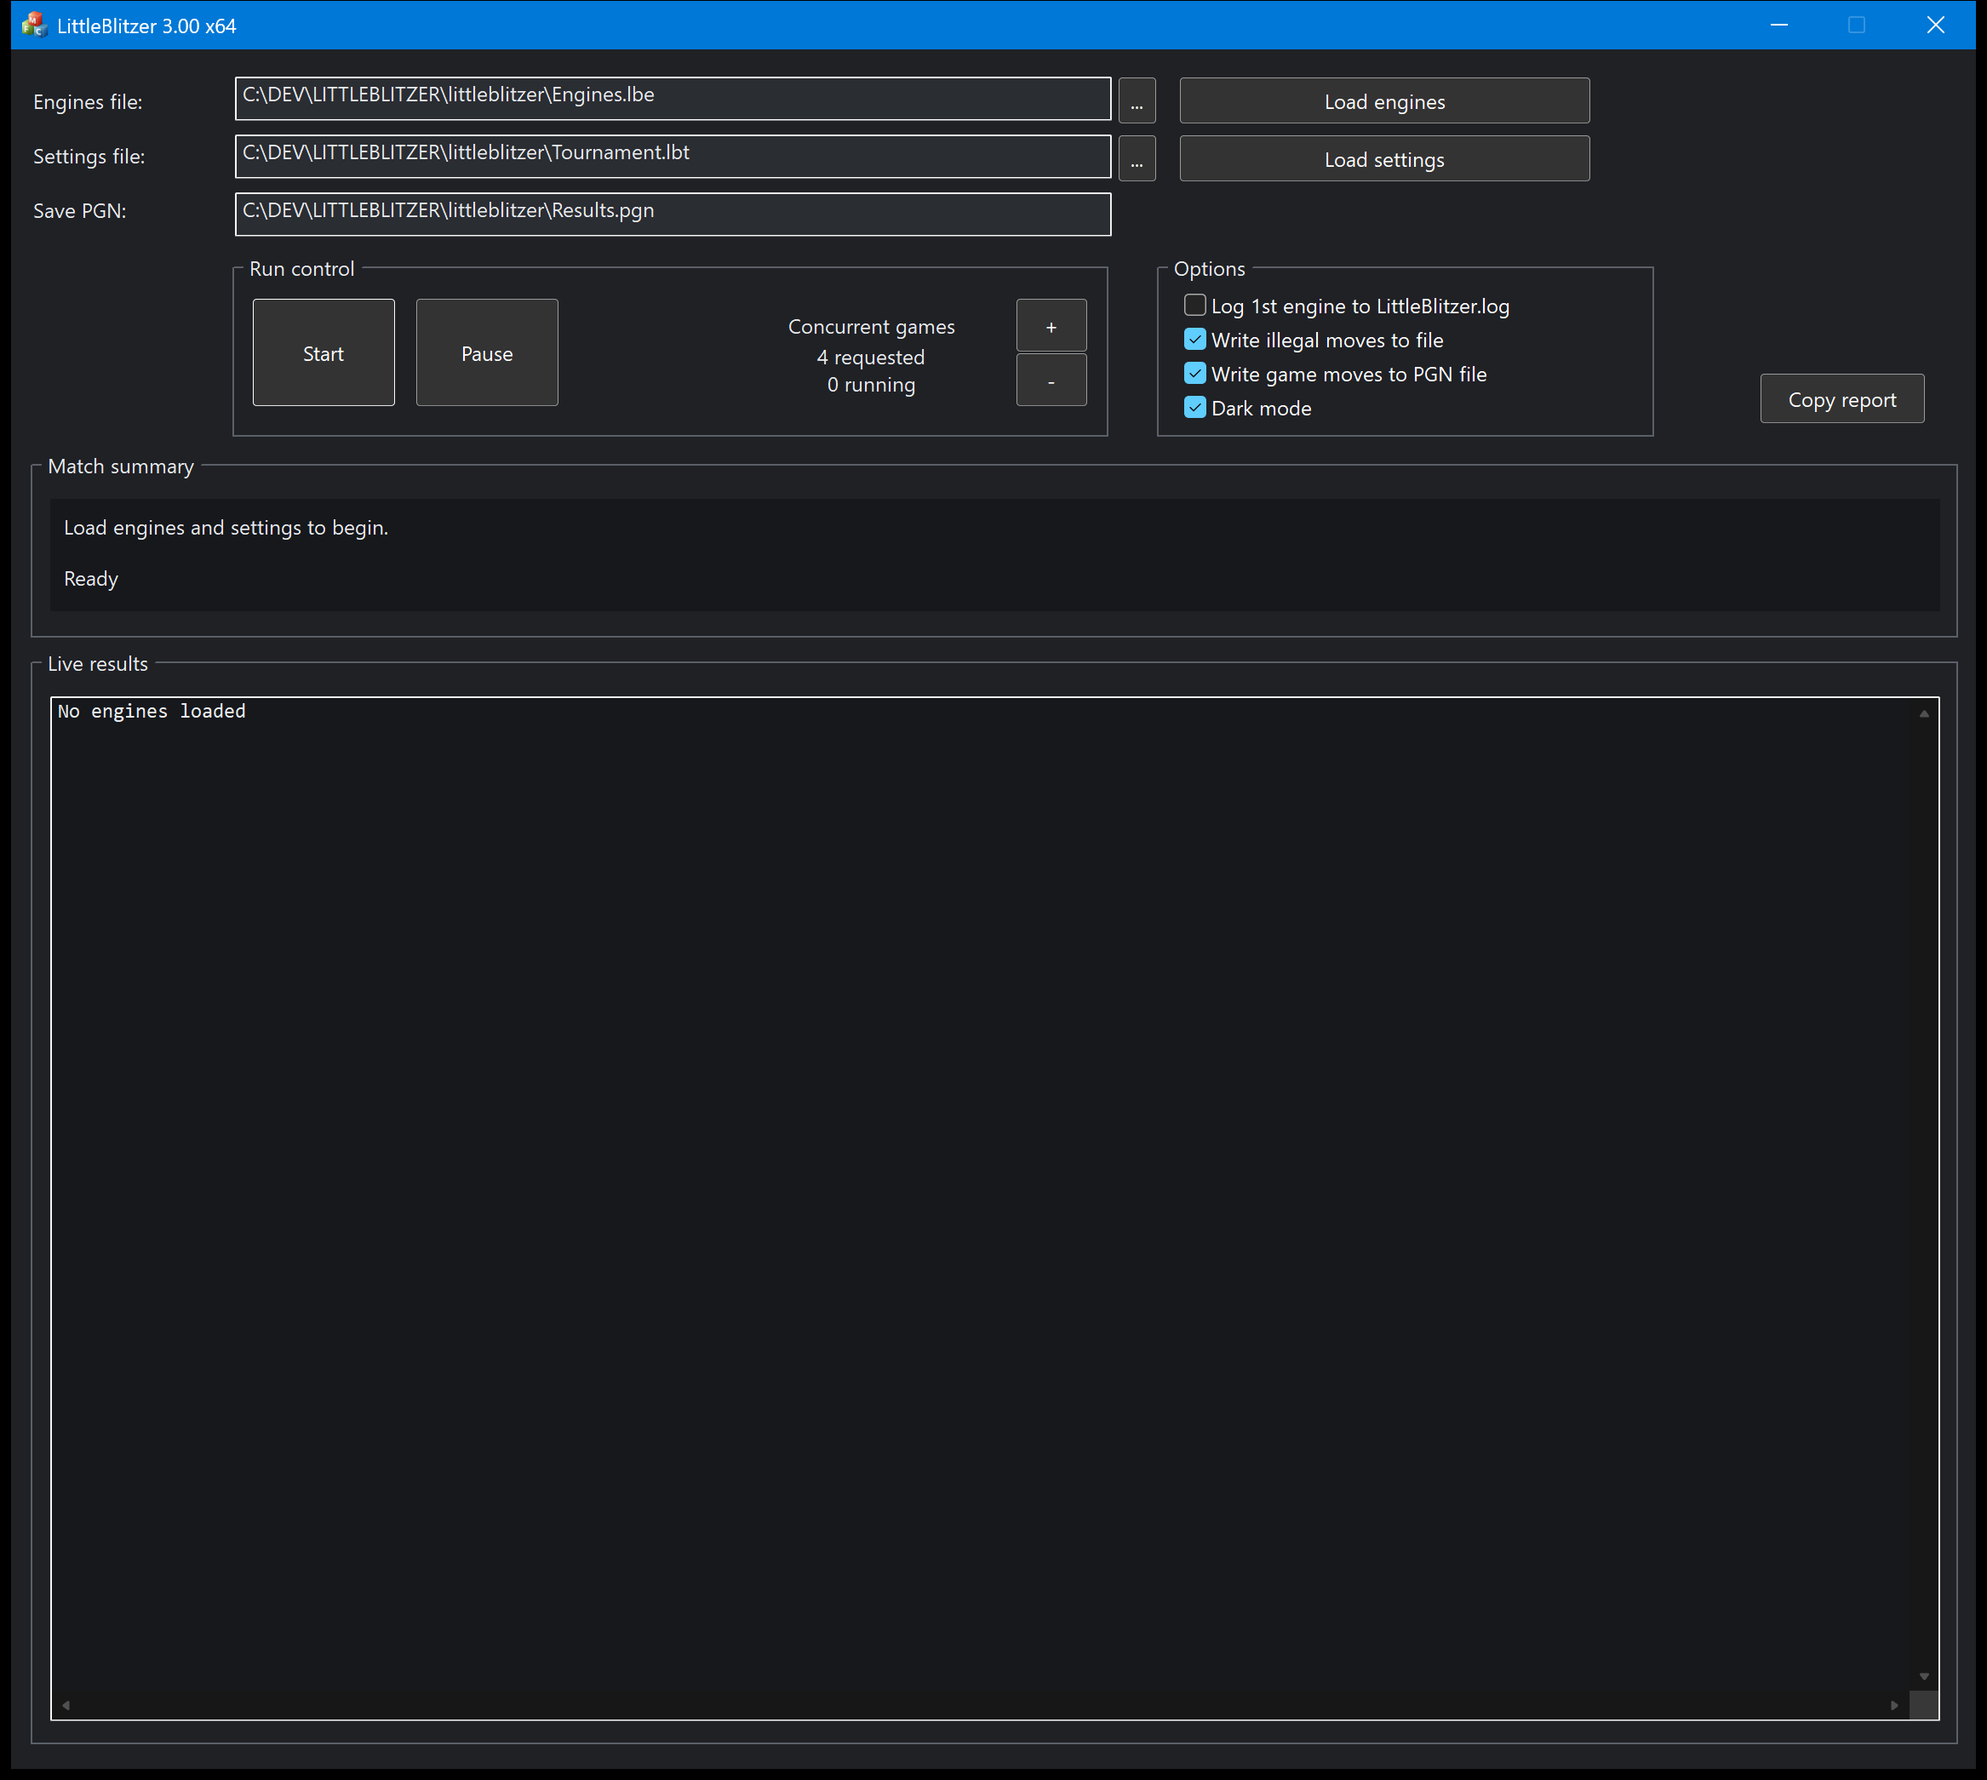
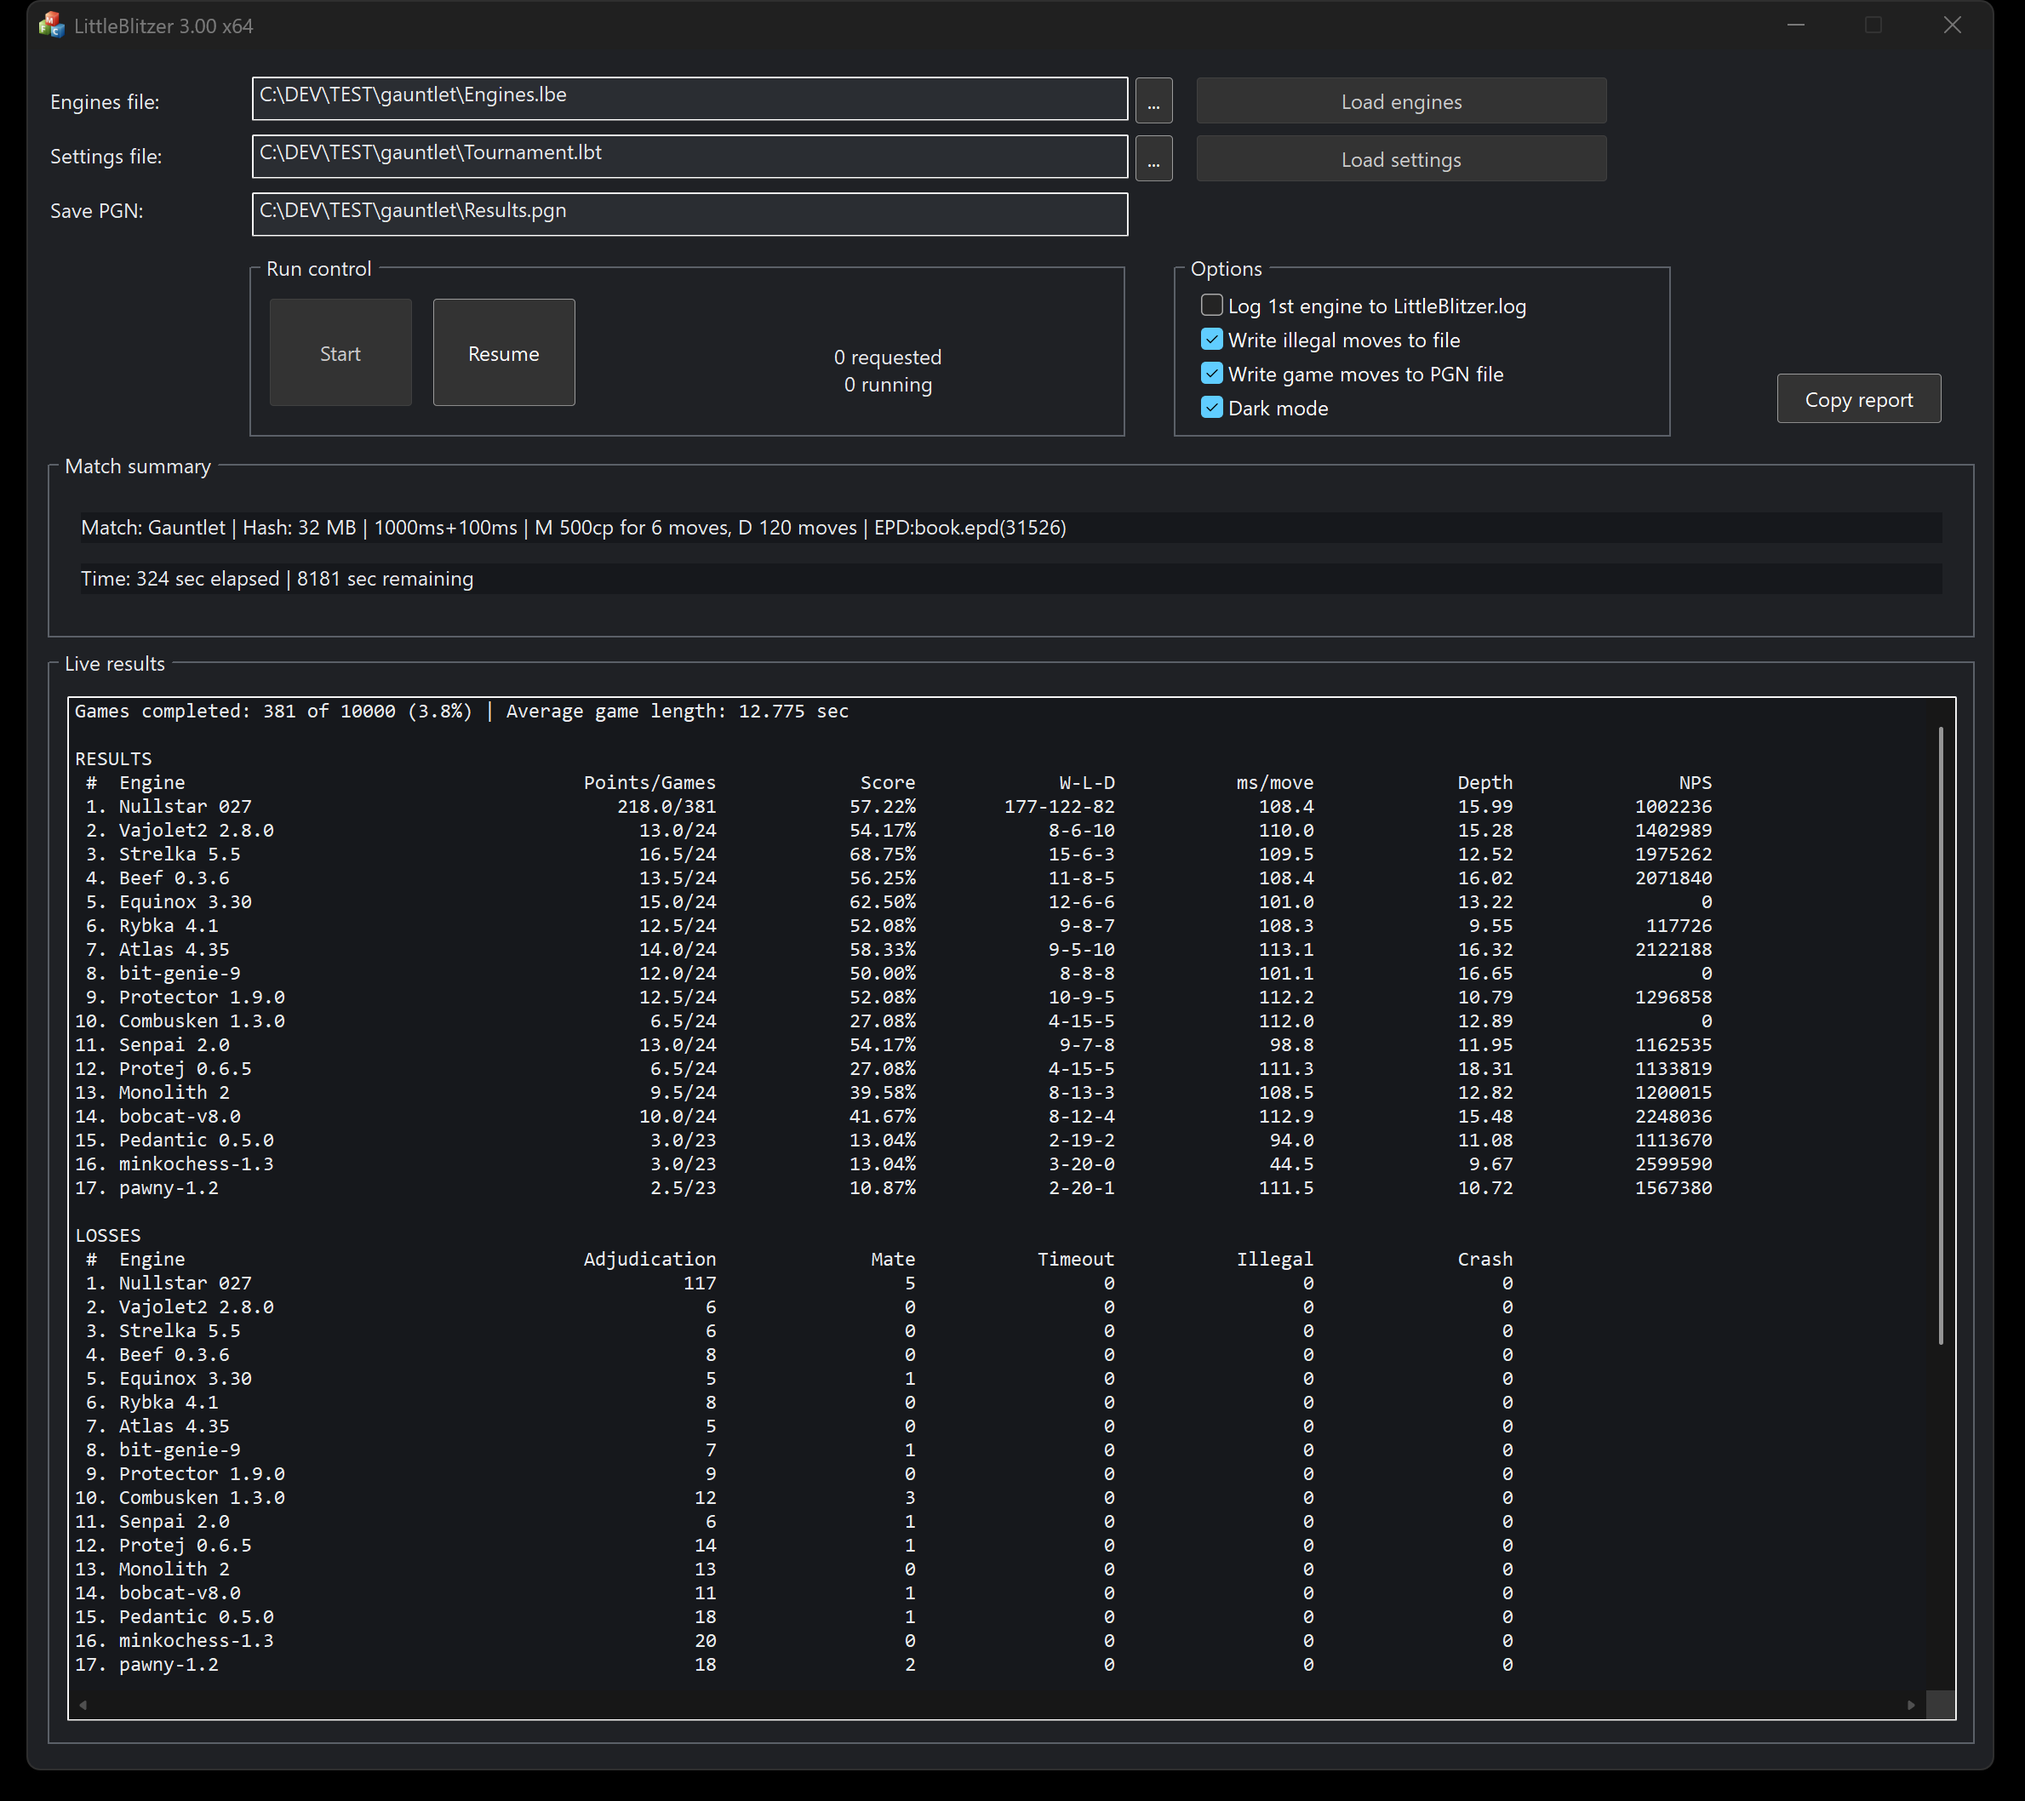
show light and dark interfaces

diff --git a/docs/ReadMe.md b/docs/ReadMe.md
@@ -17,7 +17,7 @@ separate from each engine's own UCI thread setting.
 
 Tournament results are written as PGN for rating tools such as Ordo, BayesElo, and EloStat.
 
-
+![LittleBlitzer 2.93 light interface](https://raw.githubusercontent.com/FireFather/littleblitzer/master/bitmaps/LittleBlitzer_2.93.png)
 ![LittleBlitzer 3.00 dark interface](https://raw.githubusercontent.com/FireFather/littleblitzer/master/bitmaps/LittleBlitzer_3.00.png)
 
 The live interface provides:
